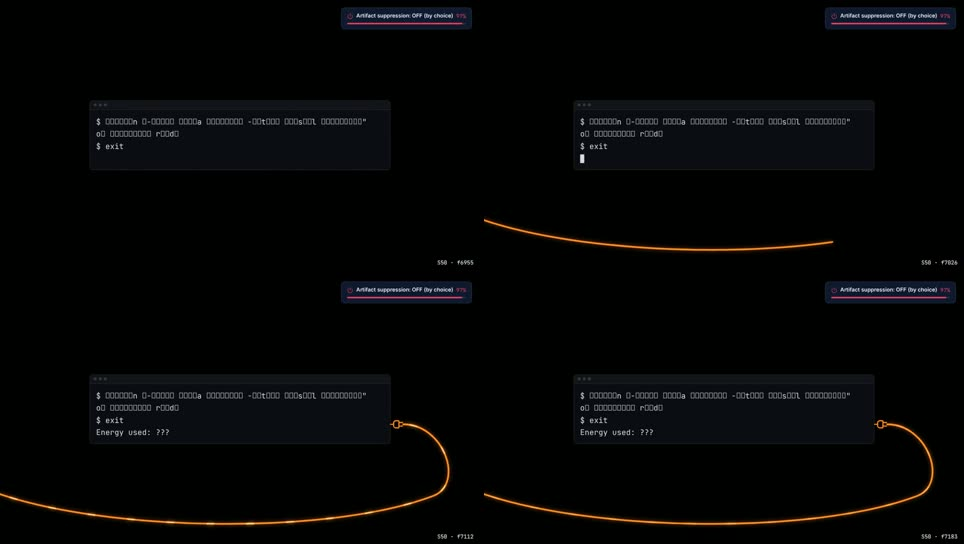
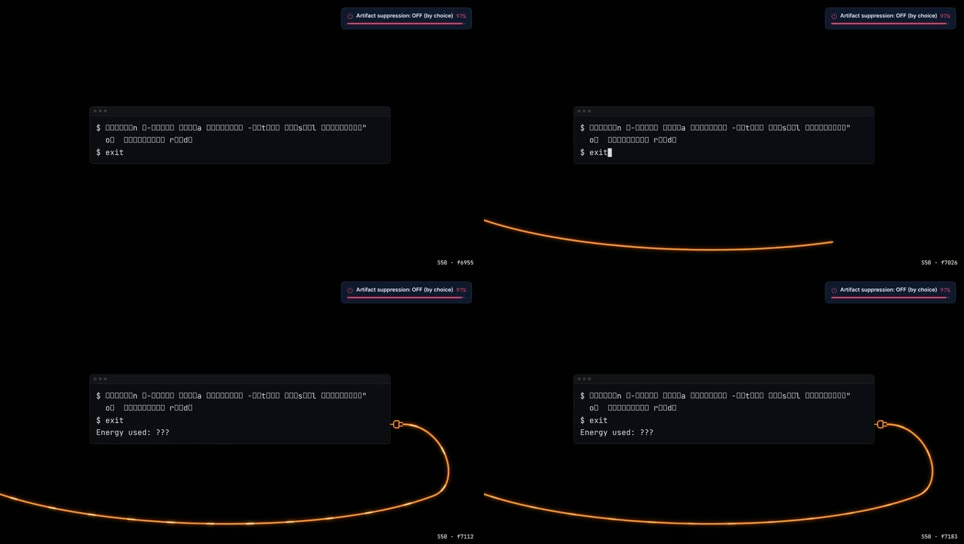
M4: animatic v5 rendered (caret, fan fade-in); v4 archived
Claude-Session: https://claude.ai/code/session_01U1tVYjqjSmd5JP5bTWdgUW

Changed region(s): [[0.0934, 0.1875, 0.3734, 0.3125], [0.5913, 0.1875, 0.9025, 0.3125]]

diff --git a/log/renders.md b/log/renders.md
@@ -49,3 +49,9 @@ Every render: timestamp, shot ID, composition, props, commit hash, output, conta
 - **Output:** `renders/m4/animatic.mp4` (301.9 s); v3 moved to `archive/renders/m4_animatic_v3.mp4`. Contact sheets regenerated.
 - **Test stills before it** (scratch): 9 frames, S48–S50, before and after the change.
 - **Why:** the human's note on S49–S50. Gate: framing and timing.
+
+## 2026-10-30T06:46 — M4 animatic v5 (caret, fan fade-in)
+
+- **Shots:** all, S01–S52 (changed: S01–S04 and S48–S50 caret; the sound from 230 s). **Composition:** `Animatic`, `--scale=0.5 --crf=24`. **Commit:** ffc5b5d.
+- **Output:** `renders/m4/animatic.mp4` (301.9 s); v4 moved to `archive/renders/m4_animatic_v4.mp4`. Contact sheets regenerated.
+- **Check:** RMS by second (video time) 236 s −17.0, 239 s −32.3, 241 s −36.6, 244 s −43.1 dB: the chord decays into the fan with no step at the song's end.
